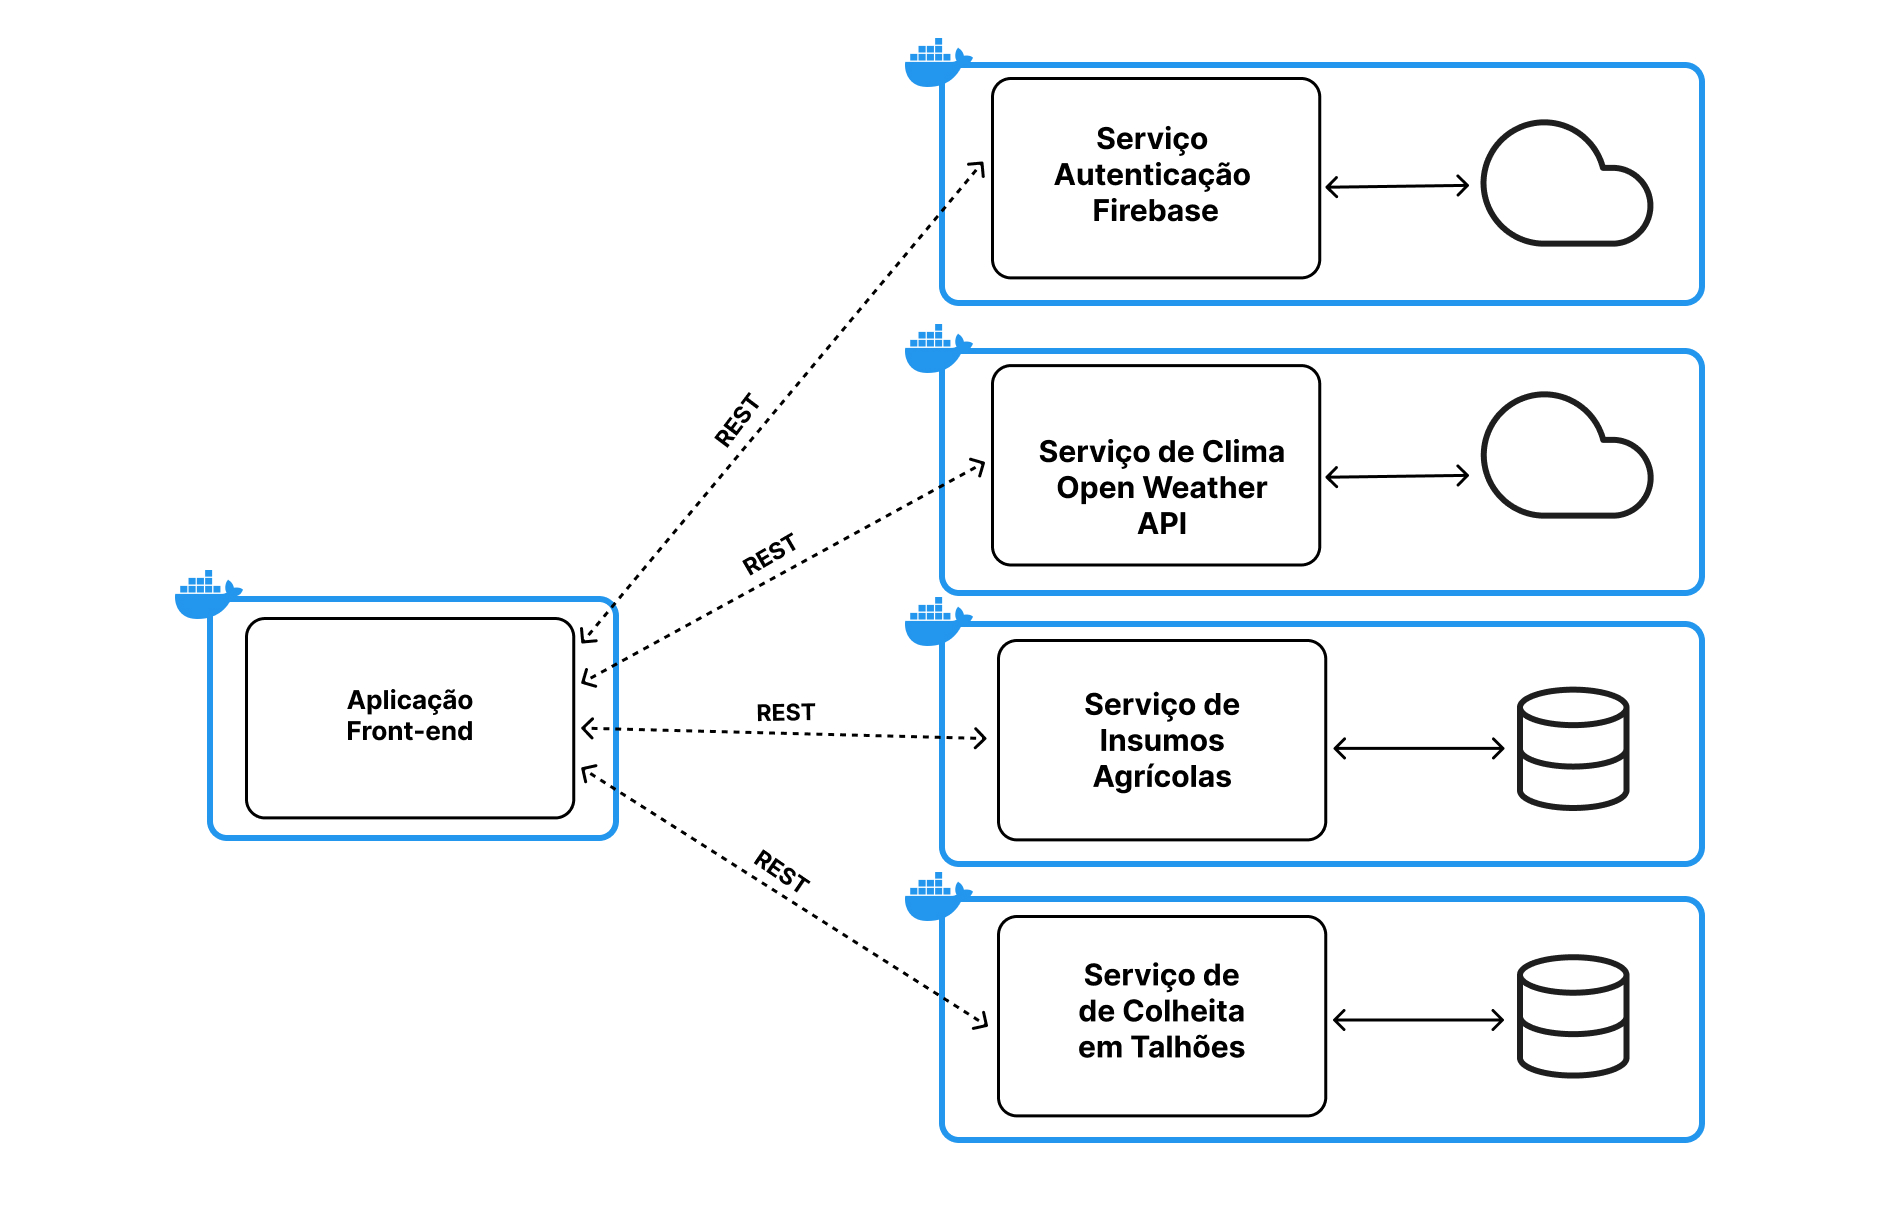
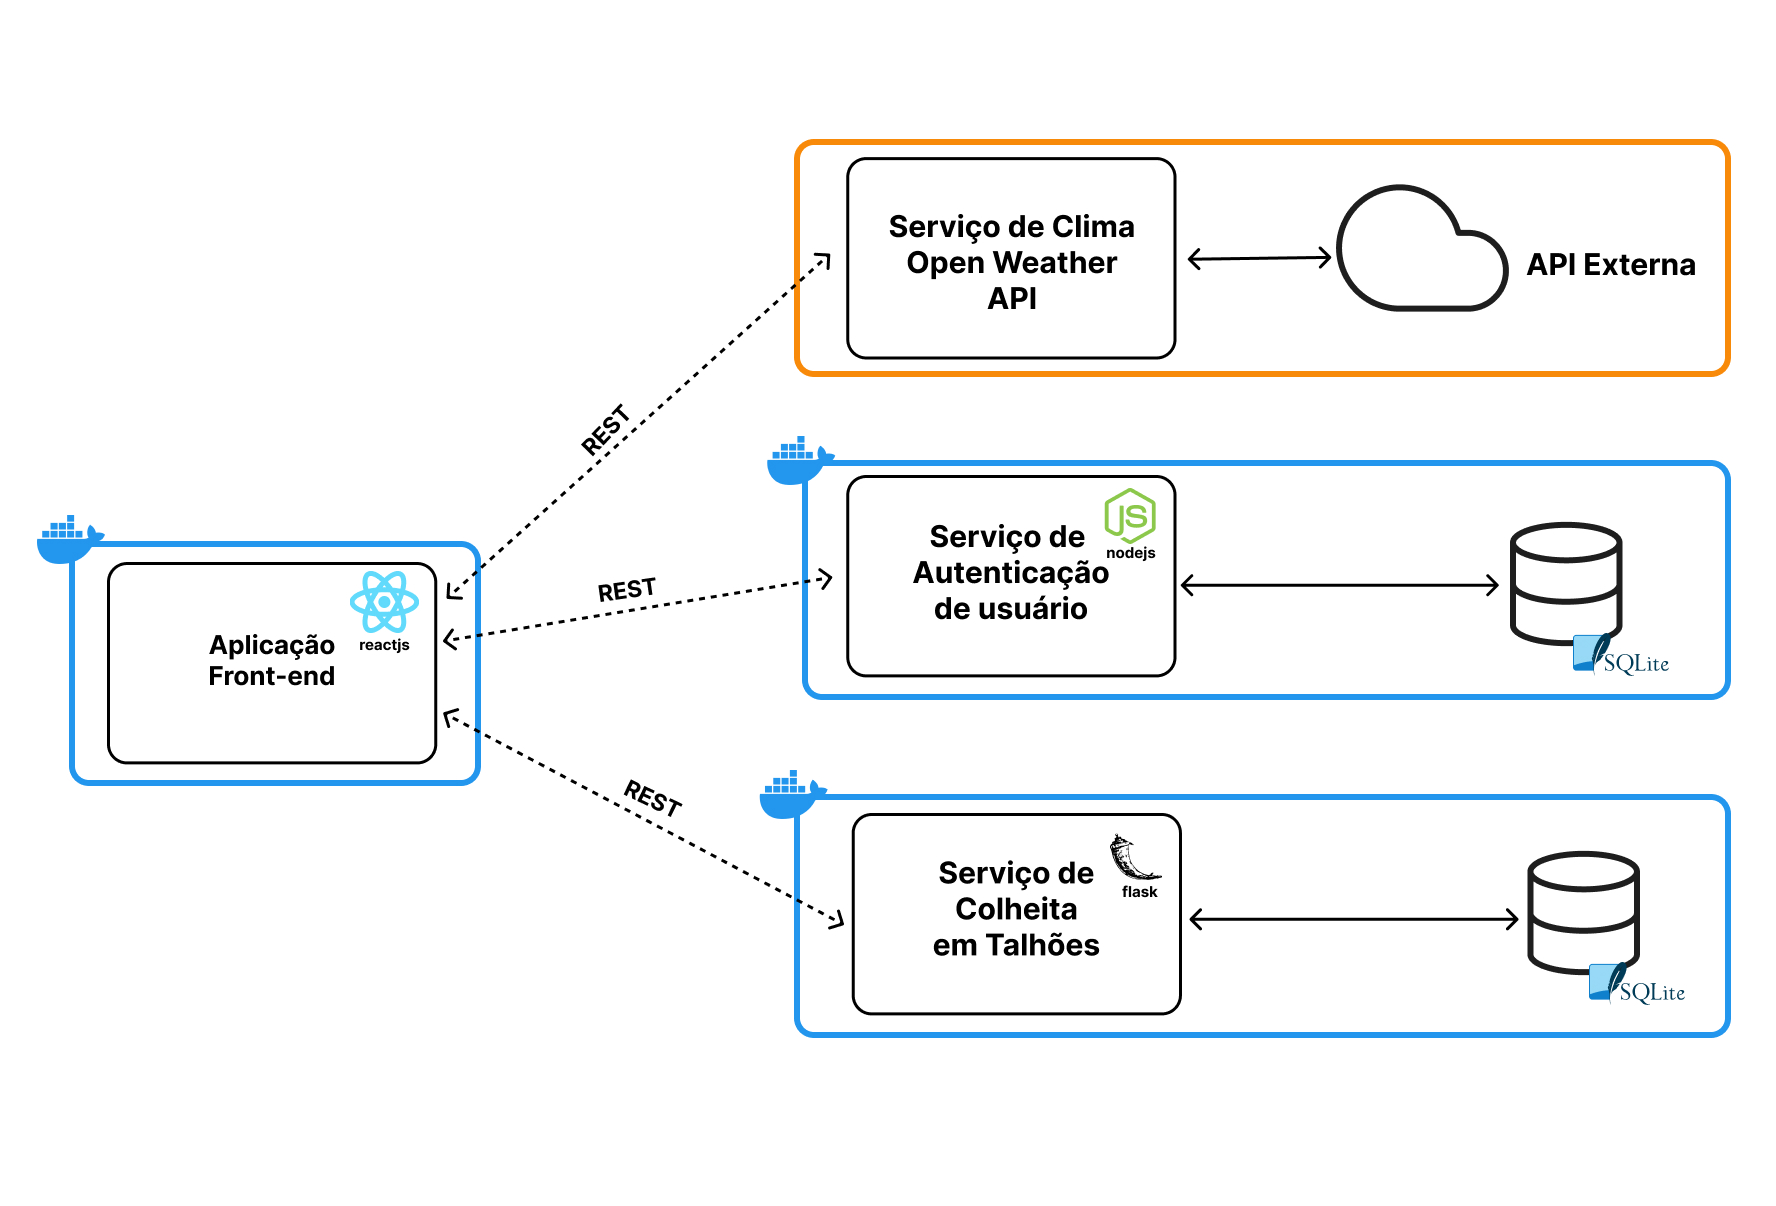
docs: adjust readme

diff --git a/README.md b/README.md
@@ -14,20 +14,18 @@
 
 </div>
 
-# Agriprecision - App Front-end
+# Agriprecision - Aplicação Front-end
 
-Recursos precisos para um plantio sustentável e eficiente.
+Seu plantio sustentável e eficiente.
 
-**Agriprecision** tem como objetivo contribuir na agricultura de precisão, definindo os requisitos das safras e do solo para uma produtividade ótima, por um lado, e para preservar os recursos, assegurar a sustentabilidade ambiental e a proteção, por outro. Assim, contribuindo para [os Objetivos de Desenvolvimento Sustentável do documento da ONU](https://brasil.un.org/pt-br/sdgs).
+**Agriprecision** tem como objetivo contribuir para a agricultura de precisão, definindo os requisitos das safras e do solo para se obter uma produtividade eficiente, com a preservação de recursos e assegurar a sustentabilidade ambiental. Assim, contribuindo para [o documento da ONU dos Objetivos de Desenvolvimento Sustentável](https://brasil.un.org/pt-br/sdgs).
 
-Portanto, trata-se de um Web App que permite aos agricultores controlarem a quantidade de insumos agrícolas aplicáveis dentro de áreas agrícolas definidas na fase de plantio.
-
-Projeto desenvolvido para o MVP na Sprint Arquitetura de Software da Pós Graduação de Engenharia de Software da PUC-Rio.
+Projeto desenvolvido para o MVP na Sprint: **Arquitetura de Software** da Pós Graduação de Engenharia de Software da PUC-Rio.
 
 
 ## Arquitetura de Software Desenvolvida
 
-O projeto foi desenvolvido em uma arquitetura baseada em microsserviços que possui como serviços de APIs externas a autenticação e de dados do clima, assim como foram desenvolvidos os serviços de gerenciamento de estoque de insumos agrícolas disponíveis e o gerenciamento do histórico de produção com base nas colheitas em talhões.
+O projeto foi desenvolvido em uma arquitetura baseada em microsserviços, na qual uma aplicação front-end monolítica gerencia todo o estado e o comportamento, enquanto utiliza microsserviços de apoio para recuperar dados ou executar as operações necessárias. Os microsserviços utilizados são: Serviço de autenticação, Serviço de dados do clima e Serviço de colheitas em talhões, que podem ser observados melhor no diagrama a seguir.
 
 ![diagrama da arquitetura](./doc-images/arq-diagram.jpg)
 
@@ -35,12 +33,100 @@ O projeto foi desenvolvido em uma arquitetura baseada em microsserviços que pos
 ### Acesso aos componentes da Arquitetura
 
 - **Aplicação Front-end (Repositório Atual)**
-- [Serviço de insumos agrícolas]()
-- [Serviço de Colheitas em Talhões]()
--  [Serviço de Autenticação do Firebase]()
--  [Serviço de Clima de Open Weather API]()
+- [Serviço de Colheitas em Talhões](https://github.com/MicaelRiboura/agriPrecisionHarvestService)
+-  [Serviço de Autenticação de Usuário](https://github.com/MicaelRiboura/agriPrecisionUserService)
+-  [Serviço de Clima de Open Weather API](./weather-api.docs.md)
 
 ## Como executar a aplicação com Docker
 
+### 1 - Clonando o repositório
+Antes de tudo, precisamos clonar o projeto para ser executado em sua máquina. Você pode clonar esse repositório fazendo o download por meio de um arquivo ZIP ou através do seguinte comando:
+
+```
+git clone https://github.com/MicaelRiboura/agriprecisionWebApp.git
+```
+
+> ⚠ Após clonar o repositório, é necessário ir ao diretório raiz do projeto, pelo terminal, para poder executar os comandos descritos abaixo.
+
+### 2 - Criando arquivo *.env*
+
+O próximo passo é criar o arquivo com as configurações de ambiente. Para isso, crie um arquivo com o nome `.env` e preencha-o com as chaves presentes abaixo e os valores corretos:
+
+```
+VITE_WEATHER_API_URL=
+VITE_WEATHER_API_KEY=
+VITE_HARVEST_API_URL=
+VITE_USER_API_URL=
+```
+
+> ⚠ Atenção! Esse exemplo possui apenas as chaves sem valores. Para conseguir executar a aplicação nenhum problema, é necessário que preencha manualmente os valores, como os endereços dos microsserviços executando em sua máquina e sua chave de OpenWeather API que pode ser adquirida em https://openweathermap.org/api.
+
+### 3 - Criando a imagem Docker
+Primeiro, você deve criar uma imagem Docker com o seguinte comando:
+
+```
+docker build -t agri-frontend .
+```
+
+### 4 - Rodando container Docker
+Para executar um container Docker com base na imagem criada através do seguinte comando:
+
+```
+docker run -p 3000:3000 agri-frontend
+```
+
+Ao final, cole esse endereço no seu navegador para visualizar a documentação da API e suas rotas:
+
+```
+localhost:3000
+```
 
 ## Como executar a aplicação sem Docker
+
+## 1 - Clonando o repositório
+Antes de tudo, precisamos clonar o projeto para ser executado em sua máquina. Você pode clonar esse repositório fazendo o download por meio de um arquivo ZIP ou através do seguinte comando:
+
+```
+git clone https://github.com/MicaelRiboura/agriprecisionWebApp.git
+```
+
+> ⚠ Após clonar o repositório, é necessário ir ao diretório raiz do projeto, pelo terminal, para poder executar os comandos descritos abaixo.
+
+### 2 - Criando arquivo *.env*
+
+O próximo passo é criar o arquivo com as configurações de ambiente. Para isso, crie um arquivo com o nome `.env` e preencha-o com as chaves presentes abaixo e os valores corretos:
+
+```
+VITE_WEATHER_API_URL=
+VITE_WEATHER_API_KEY=
+VITE_HARVEST_API_URL=
+VITE_USER_API_URL=
+```
+
+> ⚠ Atenção! Esse exemplo possui apenas as chaves sem valores. Para conseguir executar a aplicação nenhum problema, é necessário que preencha manualmente os valores, como os endereços dos microsserviços executando em sua máquina e sua chave de OpenWeather API que pode ser adquirida em https://openweathermap.org/api.
+
+#
+
+Para executar a aplicação é necessário ter todas as libs (bibliotecas) javascript listadas no arquivo `package.json` instaladas.
+
+#
+
+### 3 - Instalando as dependências
+
+Para instalar as libs listadas no arquivo `package.json`, execute o comando abaixo:
+
+```
+npm install
+```
+### 4 - Executando a Aplicação Front-end
+Para executar a API, basta executar o seguinte comando:
+
+```
+npm run dev
+```
+
+Ao final, cole esse endereço no seu navegador para visualizar a documentação da API e suas rotas:
+
+```
+localhost:3000
+```

diff --git a/weather-api.docs.md b/weather-api.docs.md
@@ -1,0 +1,36 @@
+# Open Weather API - Documentação
+
+[Voltar ao README](./README.md)
+
+## Rota utilizada
+Rota utilizada da API **OpenWeather** para obter os dados essenciais do clima atual no estado do Rio de Janeiro:
+```
+    /current.json?q=Rio%20de%20Janeiro&key=
+```
+## Estrutura de Dados Retornada
+- `current` Resposta atual da API de dados meteorológicos
+    - `current.dt` Hora atual, Unix, UTC
+    - `current.sunrise` Hora do nascer do sol, Unix, UTC. Para áreas polares em períodos de sol da meia-noite e noites polares este parâmetro não é retornado na resposta
+    - `current.sunset` Hora do pôr do sol, Unix, UTC. Para áreas polares em períodos de sol da meia-noite e noites polares este parâmetro não é retornado na resposta
+    - `current.temp` Temperatura. Unidades - padrão: Kelvin, métrica: Celsius, imperial: Fahrenheit. Como alterar as unidades usadas
+    - `current.feels_like` Temperatura. Este parâmetro de temperatura é responsável pela percepção humana do clima. Unidades – padrão: Kelvin, métrica: Celsius, imperial: Fahrenheit.
+    - `current.pressure` Pressão atmosférica ao nível do mar, hPa
+    - `current.humidity` Umidade, %
+    - `current.dew_point ` Temperatura atmosférica (variando de acordo com a pressão e a umidade) abaixo da qual as gotas de água começam a condensar e o orvalho pode se formar. Unidades – padrão: Kelvin, métrica: Celsius, imperial: Fahrenhei
+    - `current.clouds` Nebulosidade, %
+    - `current.uvi` Índice UV atual.
+    - `current.visibility` Visibilidade média, metros. O valor máximo da visibilidade é de 10 km
+    - `current.wind_speed` Velocidade do vento. Velocidade do vento. Unidades – padrão: metro/seg, métrica: metros/seg, imperial: milhas/hora. Como alterar as unidades usadas
+    - `current.wind_gust` (quando disponível) Rajada de vento. Unidades – padrão: metro/seg, métrica: metros/seg, imperial: milhas/hora. Como alterar as unidades usadas
+    - `current.wind_deg` Direção do vento, graus (meteorológico)
+    - `current.rain`
+        - `current.rain.1h` (quando disponível) Precipitação, mm/h. Observe que apenas mm/h como unidades de medida estão disponíveis para este parâmetro
+    - `current.snow`
+        - `current.snow.1h` (quando disponível) Precipitação, mm/h. Observe que apenas mm/h como unidades de medida estão disponíveis para este parâmetro
+    - `current.weather`
+        - `current.weather.id` ID da condição climática
+        - `current.weather.main` Grupo de parâmetros meteorológicos (chuva, neve etc.)
+        - `current.weather.description` Condições meteorológicas dentro do grupo (lista completa de condições meteorológicas). Obtenha o resultado em seu idioma
+        - `current.weather.icon` ID do ícone do tempo.
+
+Mais detalhes podem ser obtidos na documentação oficial: https://openweathermap.org/api/one-call-3#current
